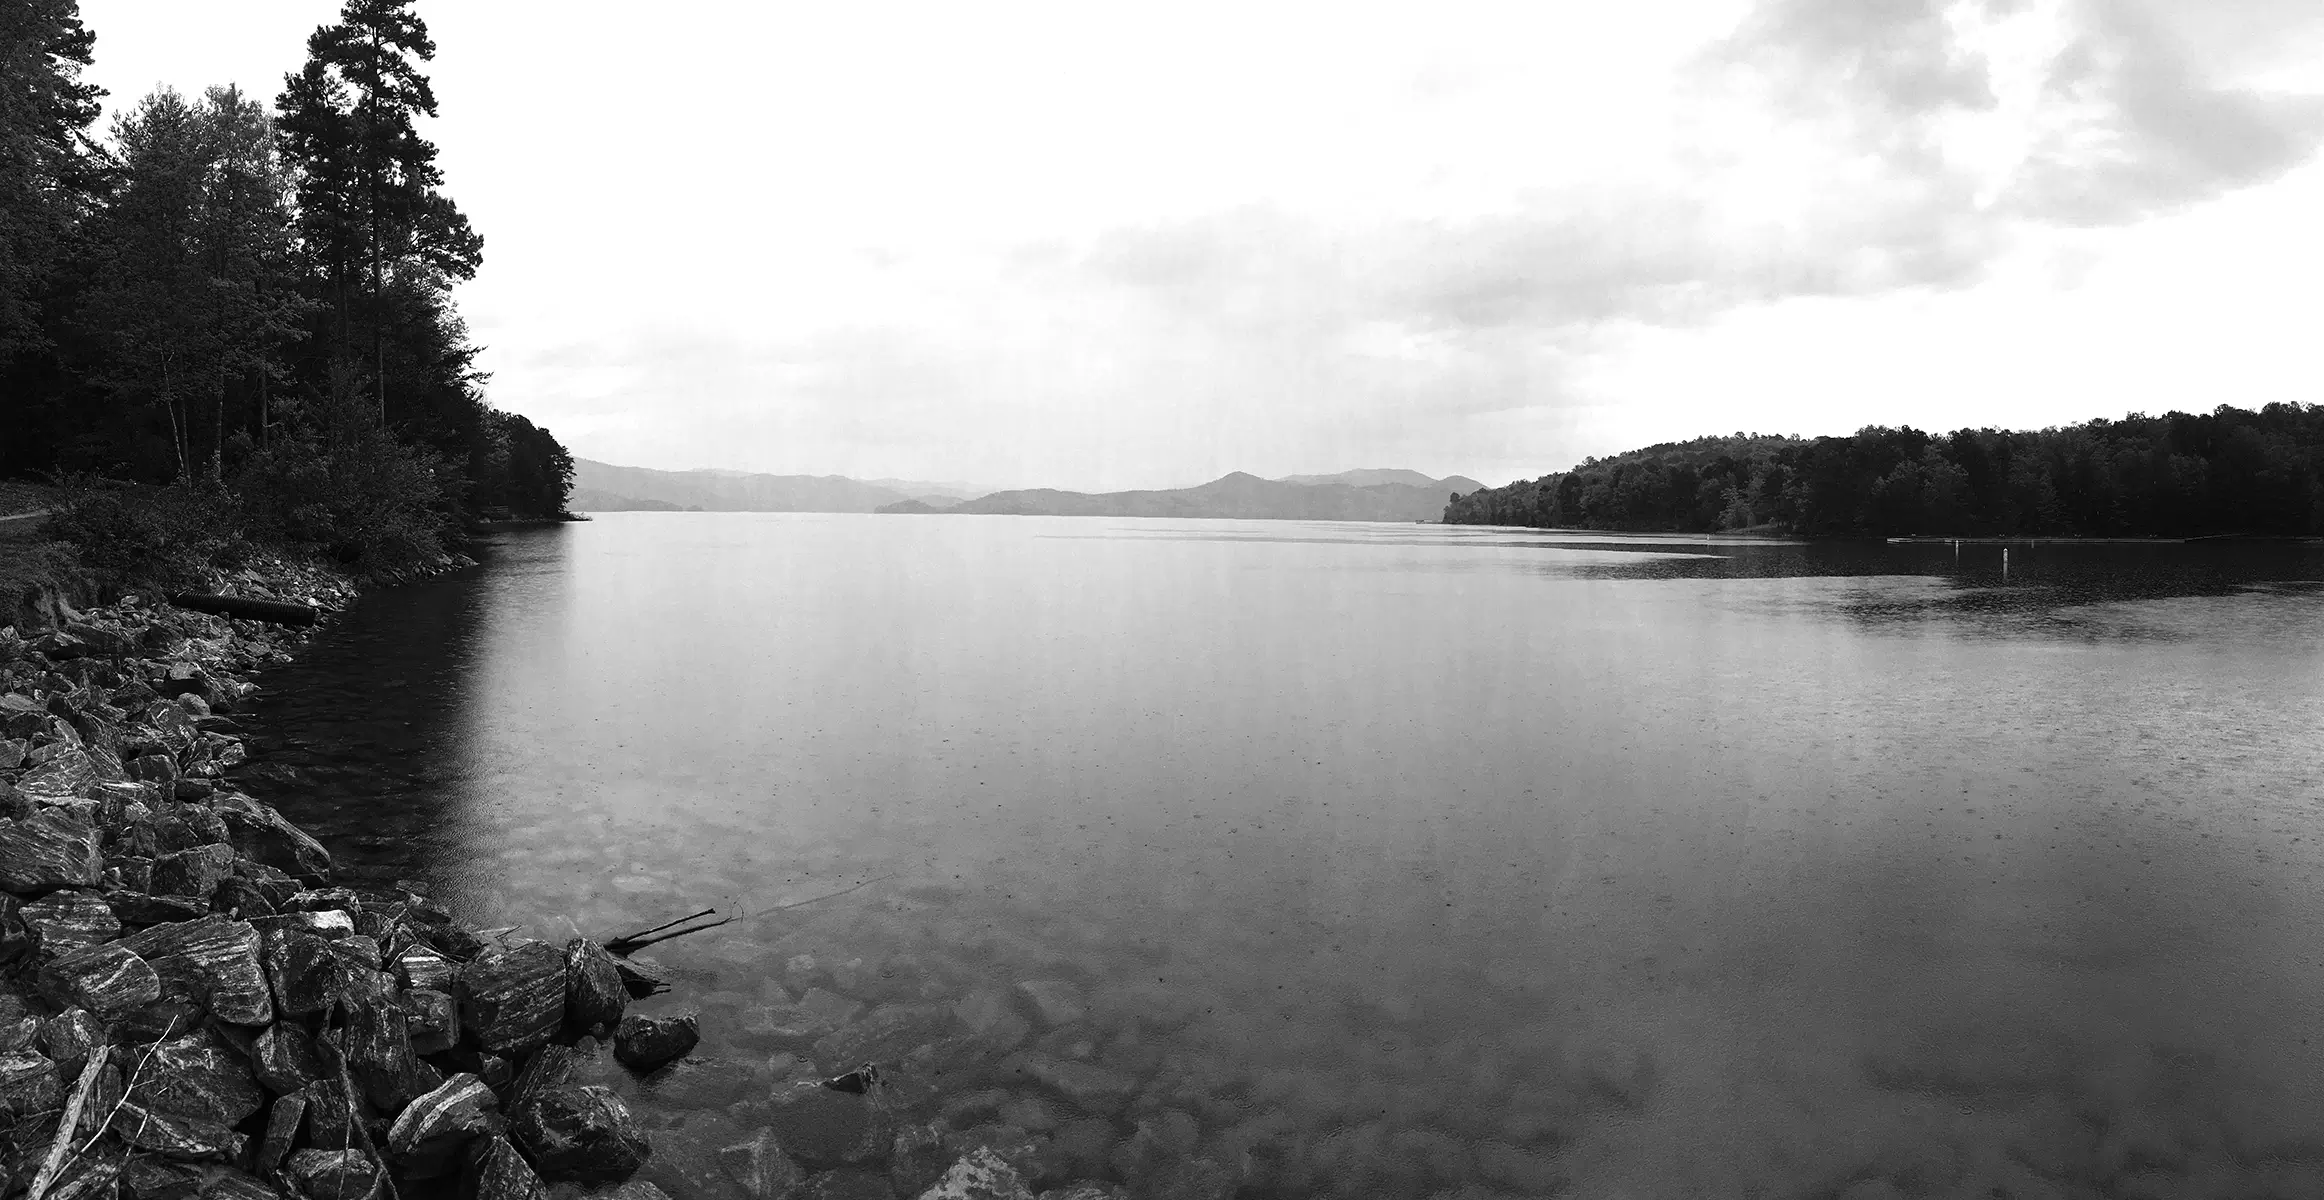
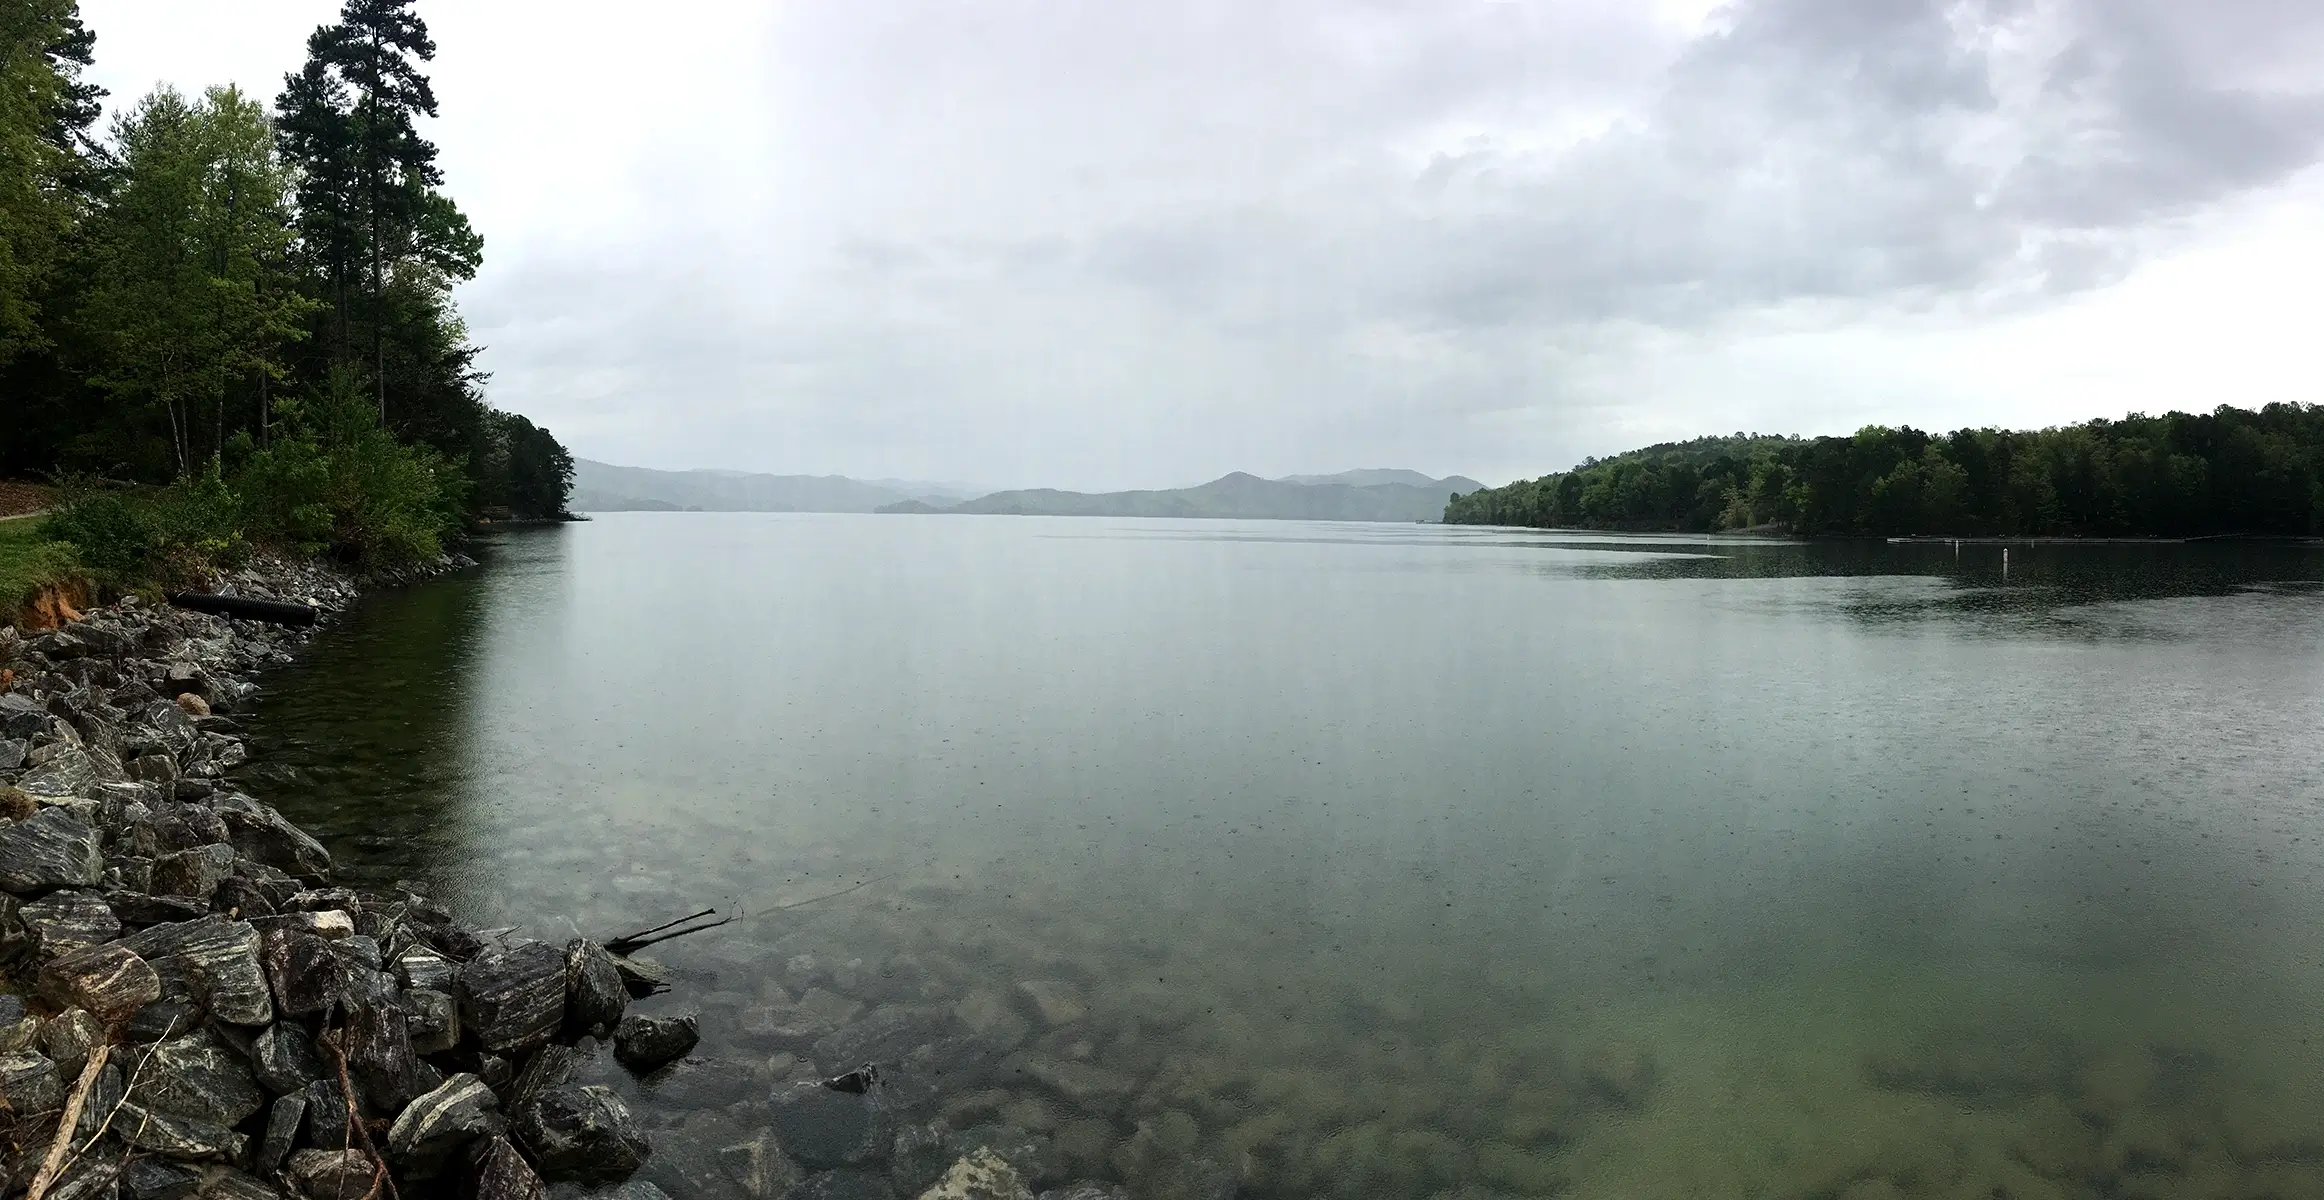
feat: images updated, background gradient added, black and white to color hover effect added

diff --git a/assets/css/style.css b/assets/css/style.css
@@ -1,5 +1,6 @@
 @import url('https://fonts.googleapis.com/css2?family=Source+Sans+3:ital,wght@0,200..900;1,200..900&display=swap');
 @import url('https://fonts.googleapis.com/css2?family=Cinzel:wght@400..900&display=swap');
+@import url('https://fonts.googleapis.com/css2?family=Special+Elite&display=swap');
 
 * {
   padding: 0;
@@ -7,14 +8,15 @@
 }
 
 body{
-  background-color: #333;
+  /* background-color: #2b2b2b; */
+  background-image: linear-gradient(to bottom right, #2b2b2b, rgb(8, 8, 8));
   color: white;
   font-family: 'Source Sans 3', sans-serif;
   letter-spacing: .08em;
 }
 
 h1,h2,h3,h4,h5,h6{
-  font-family: "Cinzel", serif;
+  font-family: "Special Elite", serif;
   letter-spacing: .1em;
 }
 
@@ -24,7 +26,8 @@ h1,h2,h3,h4,h5,h6{
 
 header,
 footer {
-  margin: 2em 1em;
+  padding: 1em 1em;
+  color: white;
 }
 
 header h1 a{
@@ -57,6 +60,10 @@ header h1 a{
   margin: 0 0 0 1em;
 }
 
+main{
+  min-height: 90vh;
+}
+
 /* ABOUT PAGE */
 .about-section-img img {
   max-width: 300px;
@@ -67,6 +74,17 @@ header h1 a{
 .about-section {
   margin: 0 0.5em;
   margin-right: 1.5em;
+}
+
+/* GALLERY PAGE */
+img {
+  filter: grayscale(100%);
+  /* -webkit-filter: grayscale(100%); */
+}
+
+img:hover {
+  filter: none;
+  /* -webkit-filter: grayscale(0); */
 }
 
 /* CONTACT PAGE */

diff --git a/gallery.html b/gallery.html
@@ -50,7 +50,7 @@
         <figure>
           <img class="img-fluid" src="assets/images/gallery-images/25-dollar-motel-needles-california (1).webp"
             alt="Needles, California" />
-          <figcaption>San Luis Obispo, California</figcaption>
+          <figcaption>Needles, California</figcaption>
         </figure>
       </div>
       <div class="col">
@@ -82,6 +82,13 @@
           <img class="img-fluid" src="assets/images/gallery-images/Shrevport-Louisiana.webp"
             alt="Shrevport Louisiana" />
           <figcaption>Shrevport, Louisiana</figcaption>
+        </figure>
+      </div>
+      <div class="col">
+        <figure>
+          <img class="img-fluid" src="assets/images/gallery-images/New-Orleans-Louisianna.webp"
+            alt="New Orleans, Louisiana" />
+          <figcaption>New Orleans, Louisiana</figcaption>
         </figure>
       </div>
       <div class="col">

diff --git a/about.html b/about.html
@@ -36,7 +36,7 @@
         </ul>
       </nav>
     </header>
-    <main class="container-fluid about-section">
+    <main class="container-fluid justify-content-center align-content-center about-section">
       <div class="row">
         <div class="col-md-4 d-flex justify-content-center about-section-img">
           <img
